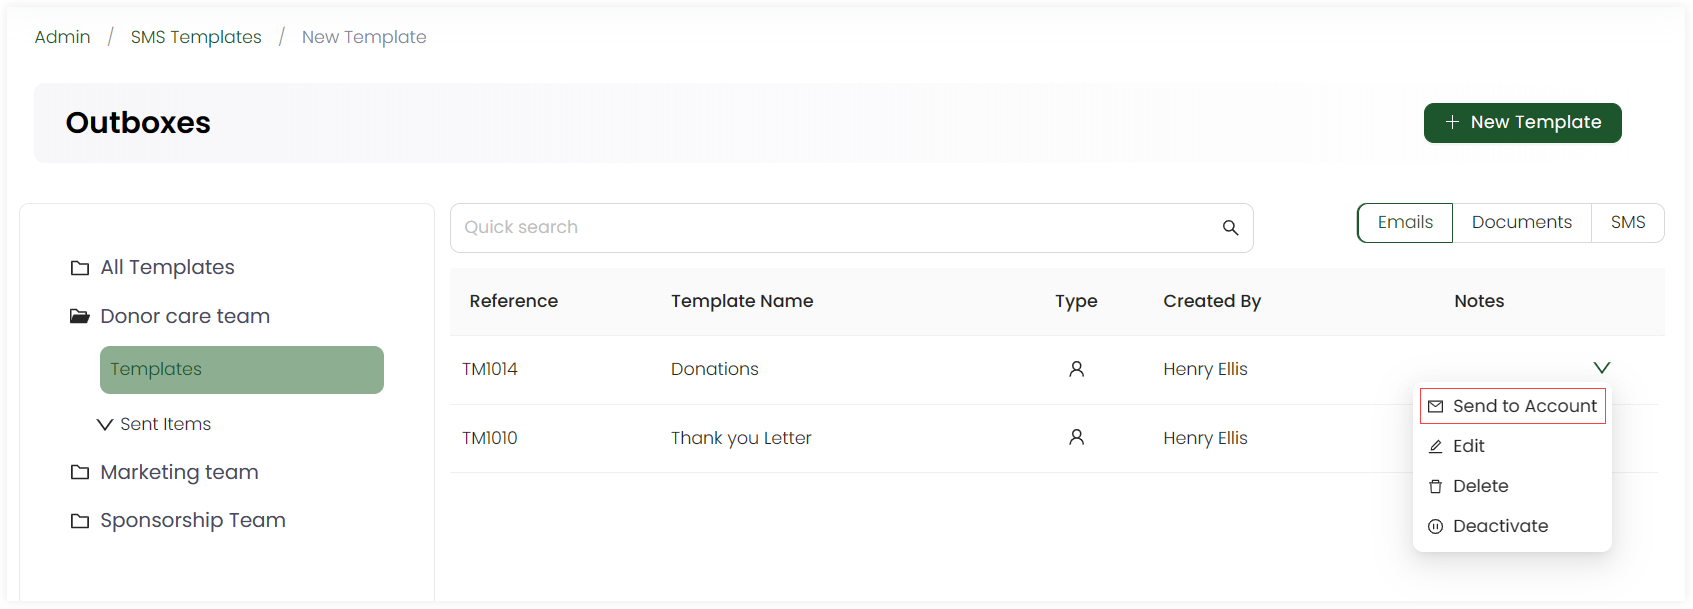
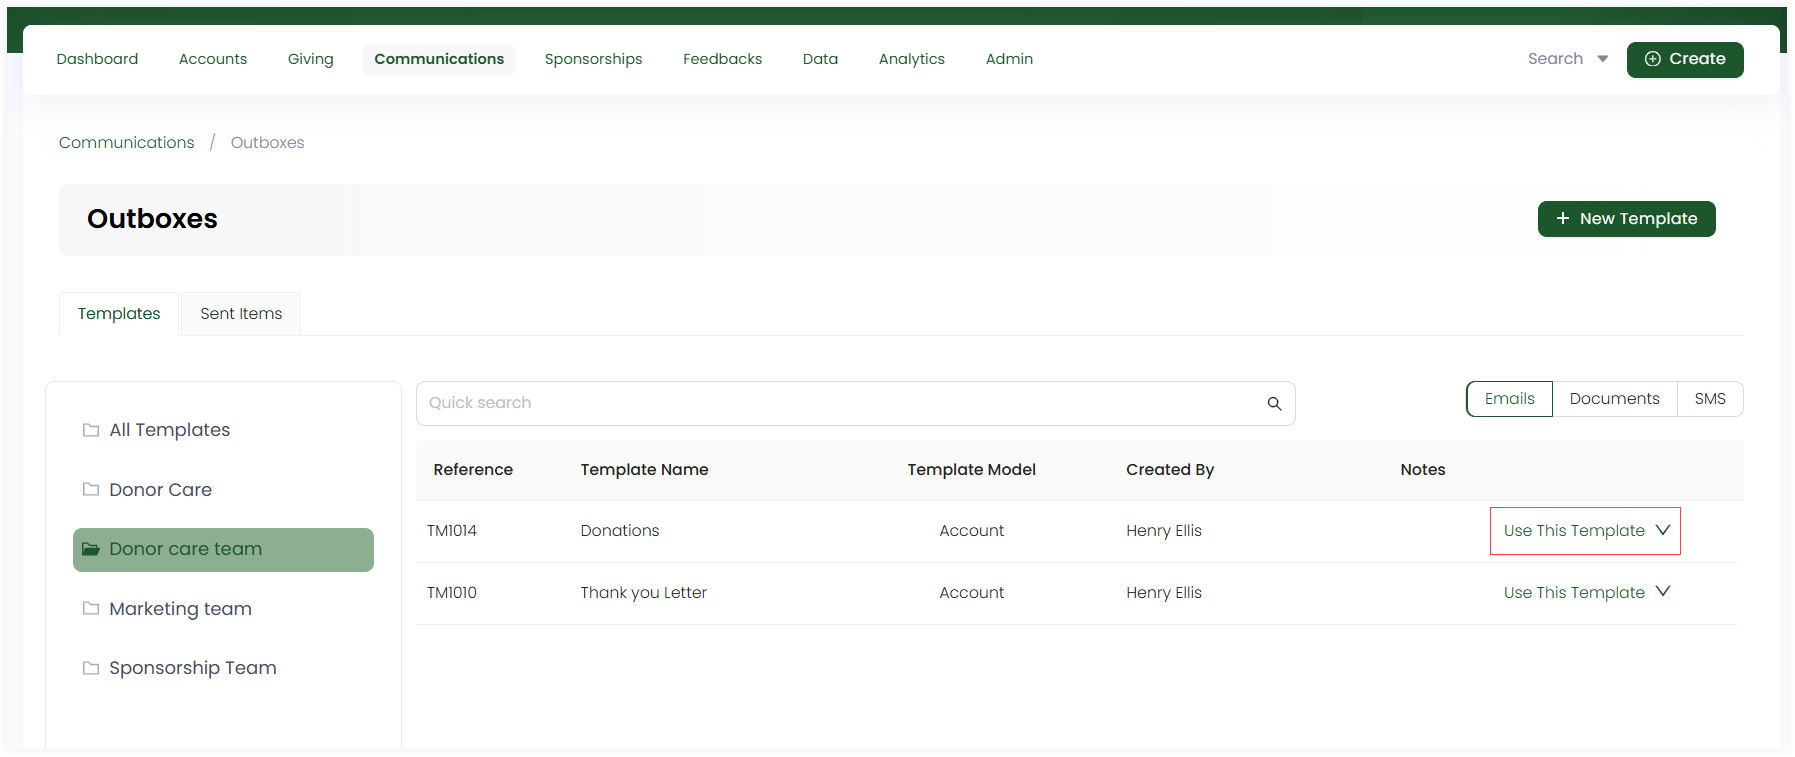
/docs/engage/communications/outboxes/ (revision)

diff --git a/docs/01-engage/07-communications/05-outboxes/02-creating-templates-in-outbox/index.md b/docs/01-engage/07-communications/05-outboxes/02-creating-templates-in-outbox/index.md
@@ -1,60 +1,58 @@
 ---
-title: Creating Templates in an Outbox
+title: Create Templates in an Outbox
 sidebar_position: 2
 ---
 
-In Engage, the outboxes dashboard contains existing templates which you can use and send to different accounts. Similarly, you can also create any new email, document or SMS template for the same purpose.
-
-On the *Outboxes* screen, click the **+ New Template** option. Then, select whether you want to create an email, document or SMS template. Each template, defined separately in each table, have their own respective parameters to be filled up.
+The **outboxes dashboard** contains templates for email, PDF and SMS which you can use and send to different accounts. To create a new template, pick up any outbox and click the **+ New Template** option. Then, select whether you want to create an email, document or SMS template. Each template, defined separately in each table, have their own respective parameters to be filled up.
 
 ![Click new template](./create-new-templates.gif)
 
-### New Email Template
+## New Email Template
 
 | Parameter | Description |   
 | --------- | ----------- |
-| Name | Primary name of an email. |
-| Layout | Format of an email. |
-| Template Models | The model used in the template. |
-| Category | Preference by which the communication would be sent. |
-| Subject | A one-liner subject of the email template. |
-| Sender Name | Email senders name. |
-| Sender Email | Senders email address. |
-| Style Sheets | The style sheet used for email template.
-| Email Body | Body of the email. |
-| Media Assets and File Attachments | Any media or other file to be attached with the email. |
-| Notes | Any extra notes added in the email template. |
+| **Name** | Primary name of an email. |
+| **Layout** | Format of an email. |
+| **Template Models** | The model used in the template. |
+| **Category** | Preference by which the communication would be sent. |
+| **Subject** | A one-liner subject of the email template. |
+| **Sender Name** | Email senders name. |
+| **Sender Email** | Senders email address. |
+| **Style Sheets** | The style sheet used for email template.
+| **Email Body** | Body of the email. |
+| **Media Assets and File Attachments** | Any media or other file to be attached with the email. |
+| **Notes** | Any extra notes added in the email template. |
 
-### New Document Template
-
-| Parameter | Description |   
-| --------- | ----------- |
-| Name | Primary name of a document. | 
-| Filename | Name of the generated PDF file. | 
-| Document Title | The title of the document. |
-| Document Author | Person who wrote the document. |
-| Layout | Format of an email. |
-| Template Models | The model used in the template. |
-| Category | Preference by which the communication would be sent. |
-| Print Queue | The queue type for batch print processing. |
-| Style Sheets | The style sheet used for email template. |
-| Stationary | Item used for PDF documents. |
-| Collation Order | A number to control sequence of documents for batch processing. |
-| Prologue | Opening of PDF document. You can also add a prologue with the **+ Add Prologue** option. |
-| Epilogue | Ending of PDF document. You can also add an epilogue with the **+ Add Epilogue** option. |
-| PDF Body | Body of the document. |
-| Media Assets and File Attachments | Any media or other file to be attached with the email. |
-| Notes | Any extra notes added in the email template. |
-
-### New SMS Template
+## New Document Template
 
 | Parameter | Description |   
 | --------- | ----------- |
-| Name | Primary name of the SMS. |
-| Layout | Format of the SMS. |
-| Template Models | The model used in the template. |
-| Category | Preference by which the communication would be sent. |
-| Sender | SMS senders name. |
-| Body | Body of the SMS. You can also preview the SMS via the **Preview** button. |
-| Notes | Any extra notes added in the SMS template. |
+| **Name** | Primary name of a document. | 
+| **Filename** | Name of the generated PDF file. | 
+| **Document Title** | The title of the document. |
+| **Document Author** | Person who wrote the document. |
+| **Layout** | Format of an email. |
+| **Template Models** | The model used in the template. |
+| **Category** | Preference by which the communication would be sent. |
+| **Print Queue** | The queue type for batch print processing. |
+| **Style Sheets** | The style sheet used for email template. |
+| **Stationary** | Item used for PDF documents. |
+| **Collation Order** | A number to control sequence of documents for batch processing. |
+| **Prologue** | Opening of PDF document. You can also add a prologue with the **+ Add Prologue** option. |
+| **Epilogue** | Ending of PDF document. You can also add an epilogue with the **+ Add Epilogue** option. |
+| **PDF Body** | Body of the document. |
+| **Media Assets and File Attachments** | Any media or other file to be attached with the email. |
+| **Notes** | Any extra notes added in the email template. |
+
+## New SMS Template
+
+| Parameter | Description |   
+| --------- | ----------- |
+| **Name** | Primary name of the SMS. |
+| **Layout** | Format of the SMS. |
+| **Template Models** | The model used in the template. |
+| **Category** | Preference by which the communication would be sent. |
+| **Sender** | SMS senders name. |
+| **Body** | Body of the SMS. You can also preview the SMS via the **Preview** button. |
+| **Notes** | Any extra notes added in the SMS template. |
  

diff --git a/docs/01-engage/07-communications/05-outboxes/03-sending-templates-via-outbox/index.md b/docs/01-engage/07-communications/05-outboxes/03-sending-templates-via-outbox/index.md
@@ -1,31 +1,53 @@
 ---
-title: Sending Templates via Outbox 
+title: Send Templates via an Outbox 
 sidebar_position: 3
 ---
 
-In Engage, you can create new a template or use any existing one to send to an account individually.  
+As soon as you create new a template, you can send it to the respective donor immediately.  
 
-1. On the *Outboxes* screen, select any template (email, SMS or document) and click the **down arrow** at the end of the row. 
+**1.** On the **Outboxes** screen, choose an outbox, then select any template (email, SMS or document) and click **Use This Template**. 
 
 ![Click down arrow to send](./click-down-arrow-to-send.png)
 
-2. Select **Send to Account** option. You can also use other options like:
+**2.** This will lead you directly to the **Send Email, Document or SMS** screen. You can also click the **down arrow** and use other options like:
 
-    - **Edit:** Update the template and save it. 
-    - **Delete:** Remove the template completely and add a new one instead.
-    - **Deactivate:** Remove the template for use only.
+- **Edit:** Update the template and save it. 
+- **Delete:** Remove the template completely and add a new one instead.
+- **Deactivate:** Remove the template for sometime and come back to use it later.
 
-3. Follow the steps respective to each template and click **Send**. 
+**3.** Follow the steps respective to each template and click **Send**. 
 
-    1. Select any *recipient account*.
-    2. Add any *additional documents* or *attachments* to the template. This is an optional step.
-    3. *Preview* the template via **Preview** option.
+### While sending an email:
+
+**1.** Search and select any **recipient account**. 
+
+**2.** Select the **entity type** to send from the options given. This depends on the **template model** that you select while adding the email template. For e.g. *template model type account does not require step 2 to be performed for an email*.
+
+**3.** Add any additional documents or **attachments** to the template. This is an optional step.
+
+**4.** Preview the template via **Preview** option.
 
 ![Send email gif](./send-email-template.gif)
 
-:::note Important
-Each template sent will go through the 3 steps defined above, but an extra step will be involved depending on the template type. For example, template type 'Sponsorships', 'Donation' or 'Feedback' will ask to choose any donation made, sponsorship or feedback created related to the recipient account as an additional step.
+### While sending a document:
 
-![Additional Step Gif](./additional-step-sponsorship.gif)
-:::
+**1.** Search and select any **recipient account**.
+
+**2.** Select the **entity type** to send from the options given. This depends on the **template model** that you select while adding the document template. For e.g. *for a donation type template model, select which donation you want to add in the document to be sent*.  
+
+**3.** Add any additional documents or **attachments** to the template. This is an optional step.
+
+**4.** Preview the template via **Preview** option.
+
+### While sending an SMS:
+
+**1.** Search and select any **recipient account**.
+
+**2.** Select the **entity type** to send from the options given. This depends on the **template model** that you select while adding the SMS template. For e.g. *for a account type template model, select which account you want to add in the SMS to be sent*.  
+
+**3.** Add any additional documents or **attachments** to the template. This is an optional step.
+
+**4.** Preview the template via **Preview** option.
+
+
 

diff --git a/docs/01-engage/07-communications/05-outboxes/01-outboxes-dashboard/index.md b/docs/01-engage/07-communications/05-outboxes/01-outboxes-dashboard/index.md
@@ -3,33 +3,38 @@ title: Outboxes Dashboard
 sidebar_position: 1
 ---
 
-In Engage, an outbox is used for sending ad-hoc correspondence (email, SMS, or document) to an account for e.g., a payment delivery is failed, or a sponsorship is due for renewal. These correspondences can be sent via two ways:
+In Engage, an outbox is used for sending ad-hoc correspondence (email, SMS, or document) to an account. For example, a payment delivery is failed, or a sponsorship is due for renewal. These correspondences can be sent via two ways:
 
 1. To one account at a time manually
 2. To different accounts automatically for a similar purpose in bulk via lists
 
 :::note
-To add outboxes and its functionality, as your system administrator to that for you.
+To add an outbox and its functionality, as your system administrator to that for you.
 :::
 
-You can view all existing outboxes in the outboxes dashboard screen representing different departments for e.g. all emails, documents or SMS related to sponsorships will be handled under the *Sponsorship Outbox*.
+You can view existing outboxes representing different entities such as sponsorships or feedbacks in the **Outboxes** screen, also known as the **Outboxes dashboard**. For example, *all emails, documents or SMS related to sponsorships will be handled under the Sponsorship Outbox*.
 
-1. Click *Communications* in the top menu bar and then *Outboxes* in the quick navigation section to view the *Outboxes* screen.
+**1.** To land onto the **Outboxes** screen, click **Communications** in the top menu bar and then **Outboxes** in the quick navigation section.
 
 ![Land onto Outboxes screen gif](./land-onto-outboxes-screen.gif)
  
-2. Each outbox includes two sections, *Templates* and *Sent Items*. Templates include all documents in the form of a list with parameters defined below. Sent items includes the time period of when the documents were sent to respective accounts e.g. *last 7 days*, *last 30 days* and *all time*. These documents are displayed in the form of a list. 
+**2.** Each outbox includes two tabs, **Templates** and **Sent Items**. 
+
+- **Templates** include all created documents (emails, PDF, SMS) that need to be sent to the donor in the form of a list. 
+- **Sent Items** includes all the documents that were successfully sent to the respective donors. You can also select the time period during which the documents were sent to respective accounts e.g. **last 7 days**, **last 30 days** or **all time**.  
 
 :::note
-You can use the *toggle button* on the right-hand to switch between different templates.
+You can use the **toggle button** on the right-hand to switch between different templates.
 :::
+
+The table defined below shows the different parameters for created documents.
 
 | Parameters | Description |
 | ---------- | ----------- |
-| Reference | Unique identification number of a template. |
-| Template Name | Name of a template. |
-| Type | Type of template used. |
-| Created By | User who created a template. |
-| Notes | Any notes added in the template. |
+| **Reference** | Unique identification number of a template. |
+| **Template Name** | Name of a template. |
+| **Type** | Type of template used. |
+| **Created By** | User who created a template. |
+| **Notes** | Any notes added in the template. |
 
-![Outboxes information](./outboxes-information.gif)
+![Outboxes information](./outboxes-screen.png)

diff --git a/docs/01-engage/07-communications/05-outboxes/index.md b/docs/01-engage/07-communications/05-outboxes/index.md
@@ -3,7 +3,9 @@ title: Outboxes
 sidebar_position: 5
 ---
 
-An outbox manages outgoing communications and serves as a centralized hub where all the communication messages, such as emails or documents, are queued and processed before being delivered to recipients. It is considered important for many reasons.
+Outboxes manage outgoing communications and serve as a centralized hub where all the communication messages, such as emails or documents, are queued and processed before being delivered to recipients. 
+
+It is considered important for many reasons:
 
 - **Message Queuing:** An outbox queues all outgoing messages, ensuring they are systematically processed and sent in the order they were generated. This helps prevent any messages from being lost or skipped, ensuring every communication is delivered.
 

diff --git a/docs/01-engage/07-communications/index.md b/docs/01-engage/07-communications/index.md
@@ -3,7 +3,7 @@ title: Communications
 sidebar_position: 7
 ---
 
-Engage's call Centre feature offers a seamless donor care solution, empowering charities to efficiently manage all aspects of your call campaigns
+Streamline your customer interactions and enhance engagement with our robust **communications** feature within Engage. 
 
 <section class="row list">
    <article class="col col--6 margin-bottom--lg">
